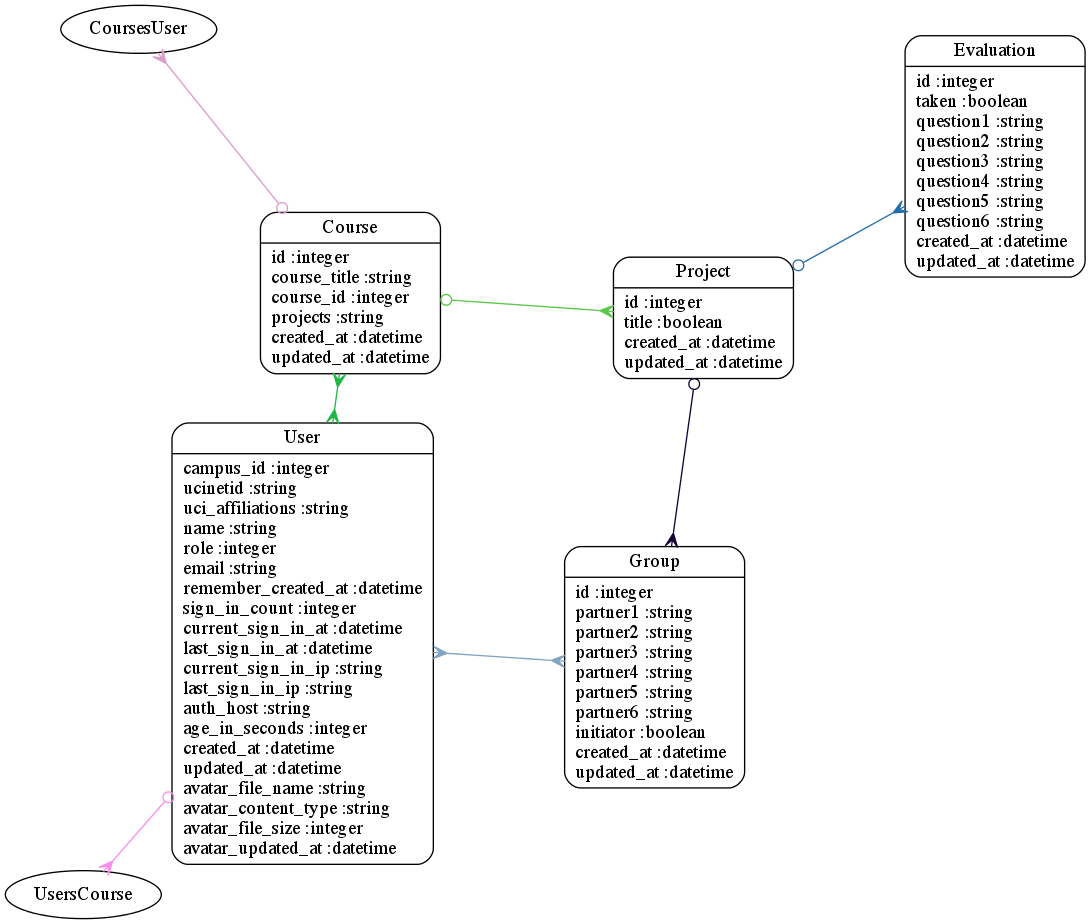
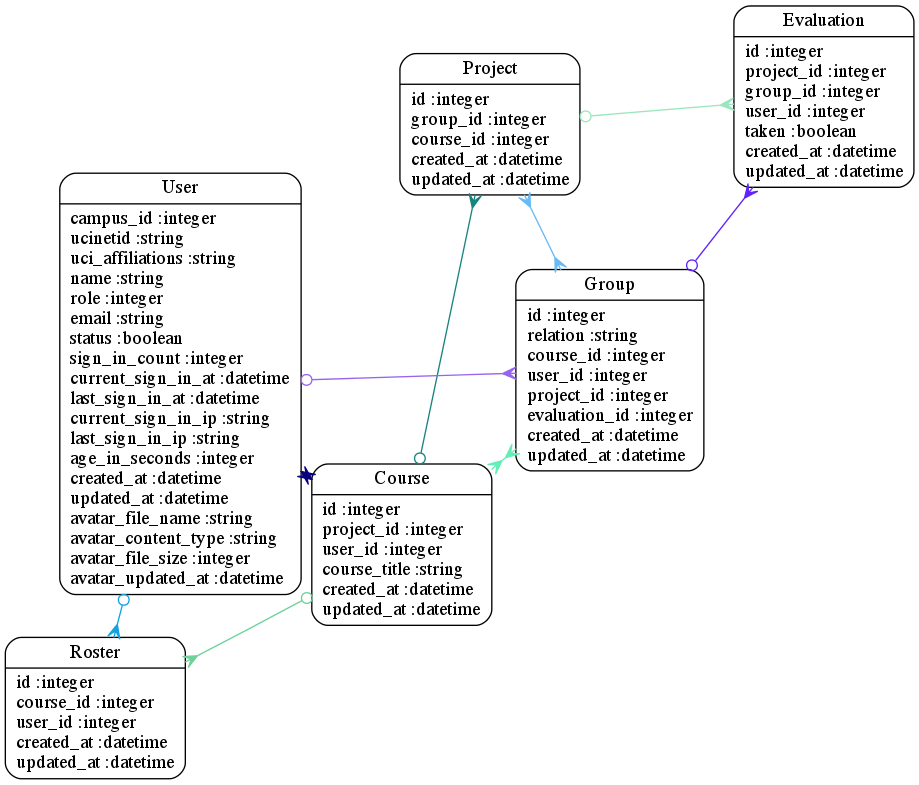
Models redo
Models not finished yet. Redo in prep for request partnerships/groups
signing in automatic no fields and its now a link, not button.

No idea what do about models.
roster keeps track of users and courses relations
evaluations keeps track of group and project relations
projects keep track of courses and groups

the user id in roster is the instructor the user id in group is the
group leader or something whatever we decide later i don know

diff --git a/app/models/group.rb b/app/models/group.rb
@@ -1,15 +1,17 @@
 class Group < ActiveRecord::Base
 
+  has_many :courses, :through=>:projects
+  has_many :projects, :through=>:evaluations
   belongs_to :user
-  belongs_to :project
-  belongs_to :group, :class_name => "User", :foreign_key => "group_id"   
- # enum status:[ :group_status, :class_name => 'groupStatus', :foreign_key => 'group_status_id']
+  belongs_to :course
+  has_many :evaluations
+  # enum status:[ :group_status, :class_name => 'groupStatus', :foreign_key => 'group_status_id']
 
   validates_presence_of   :user
   validates_presence_of   :group
   validates_uniqueness_of :group_id, :scope => :user_id
 
-  
+
   private
   def set_pending
     group_status_id = groupStatus[:pending].id

diff --git a/db/migrate/005_create_groups.rb b/db/migrate/005_create_groups.rb
@@ -1,13 +1,11 @@
 class CreateGroups < ActiveRecord::Migration
   def self.up
     create_table :groups do |t|
-      t.string   :partner1, :default=> ""
-      t.string   :partner2, :default=> ""
-      t.string   :partner3, :default=> ""
-      t.string   :partner4, :default=> ""
-      t.string   :partner5, :default=> ""
-      t.string   :partner6, :default=> ""
-      t.boolean  :initiator, :default => false
+      t.string   :relation, :default => ""
+      t.references   :course, :default=> ""
+      t.references   :user, :default=> ""
+      t.references   :project, :default=> ""
+      t.references   :evaluation, :default=> ""
       t.timestamps
     end
   end

diff --git a/app/helpers/application_helper.rb b/app/helpers/application_helper.rb
@@ -24,4 +24,20 @@ def devise_mapping
   @devise_mapping ||= Devise.mappings[:user]
 end
 
+# Submit form through link
+def link_to_submit(text)
+  link_to_function text, "$(this).closest('form').submit()"
+end
+def link_to_function(name, *args, &block)
+  html_options = args.extract_options!.symbolize_keys
+
+  function = block_given? ? update_page(&block) : args[0] || ''
+  onclick = "#{"#{html_options[:onclick]}; " if html_options[:onclick]}#{function}; return false;"
+  href = html_options[:href] || '#'
+
+  content_tag(:a, name, html_options.merge(:href => href, :onclick => onclick))
+end
+
+
+
 end

diff --git a/db/migrate/20140717232431_create_evaluations.rb b/db/migrate/20140717232431_create_evaluations.rb
@@ -1,14 +1,10 @@
 class CreateEvaluations < ActiveRecord::Migration
   def change
     create_table :evaluations do |t|
-
+      t.belongs_to :project, :default=> ""
+      t.belongs_to :group, :default=> ""
+      t.references   :user, :default=> ""
       t.boolean  :taken, :default => 0
-      t.string   :question1, :default=> ""
-      t.string   :question2, :default=> ""
-      t.string   :question3, :default=> ""
-      t.string   :question4, :default=> ""
-      t.string   :question5, :default=> ""
-      t.string   :question6, :default=> ""
 
       t.timestamps
     end

diff --git a/app/models/user.rb b/app/models/user.rb
@@ -1,9 +1,9 @@
 class User < ActiveRecord::Base
   # Include default devise modules. Others available are:
 #, :lockable, :timeoutable and :omniauthable   
-  has_and_belongs_to_many :courses
-  # has_many :groups
-  has_many :groups, :through => :projects
+  has_many :rosters
+  has_many :groups
+  has_many :courses, :through => :rosters
   # has_many :inverse_groups, :class_name => "group", :foreign_key => "campus_id"
   # has_many :inverse_groups, :through => :inverse_groups, :source => :user
 

diff --git a/db/migrate/20140715214449_create_courses.rb b/db/migrate/20140715214449_create_courses.rb
@@ -1,9 +1,9 @@
 class CreateCourses < ActiveRecord::Migration
   def change
     create_table :courses do |t|
+      t.belongs_to :project, :default=> ""
+      t.references   :user, :default=> ""
       t.string   :course_title, :default => ""
-      t.integer  :course_id, :default=> ""
-      t.string   :projects, :default=> ""
 
 
       t.timestamps

diff --git a/db/migrate/20140715214459_create_projects.rb b/db/migrate/20140715214459_create_projects.rb
@@ -1,8 +1,8 @@
 class CreateProjects < ActiveRecord::Migration
   def change
     create_table :projects do |t|
-      t.boolean  :title, :default => 0
-
+      t.belongs_to :group, :default=> ""
+      t.references   :course, :default=> ""
 
       t.timestamps
     end

diff --git a/app/models/project.rb b/app/models/project.rb
@@ -1,5 +1,6 @@
 class Project < ActiveRecord::Base
-   belongs_to :course
+   has_many :groups, :through=>:evaluations
    has_many :evaluations
-   has_many :groups
+   belongs_to :group
+   belongs_to :course
 end

diff --git a/app/models/course.rb b/app/models/course.rb
@@ -1,5 +1,7 @@
 class Course < ActiveRecord::Base
 	has_many :projects
-	has_and_belongs_to_many :users
+	has_many :users, :through=> :rosters
+	has_many :groups, :through=> :projects
+	has_many :rosters
 	 
 end

diff --git a/app/models/roster.rb b/app/models/roster.rb
@@ -1,0 +1,4 @@
+class Roster < ActiveRecord::Base
+	belongs_to :user, :class_name => "User", :foreign_key => "user_id"
+	belongs_to :course  , :class_name => "Course", :foreign_key => "course_id"
+end

diff --git a/db/migrate/20140731231530_create_rosters.rb b/db/migrate/20140731231530_create_rosters.rb
@@ -1,0 +1,9 @@
+class CreateRosters < ActiveRecord::Migration
+  def change
+    create_table :rosters do |t|
+	t.belongs_to  :course
+	t.belongs_to  :user
+      t.timestamps
+    end
+  end
+end

diff --git a/test/models/roster_test.rb b/test/models/roster_test.rb
@@ -1,0 +1,7 @@
+require 'test_helper'
+
+class RosterTest < ActiveSupport::TestCase
+  # test "the truth" do
+  #   assert true
+  # end
+end
